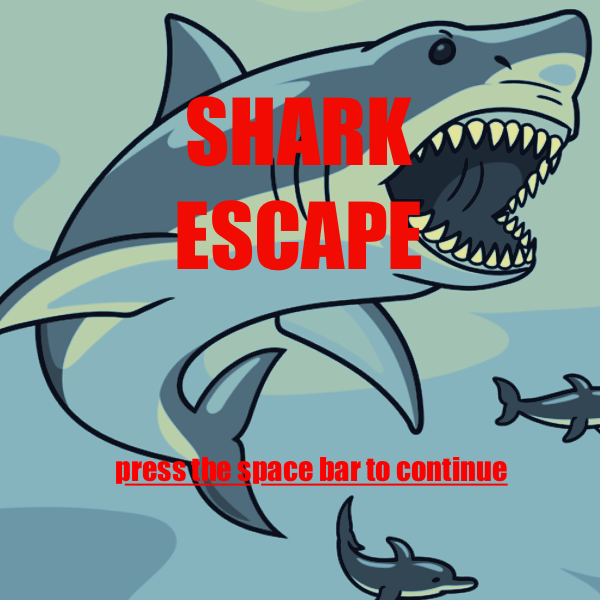
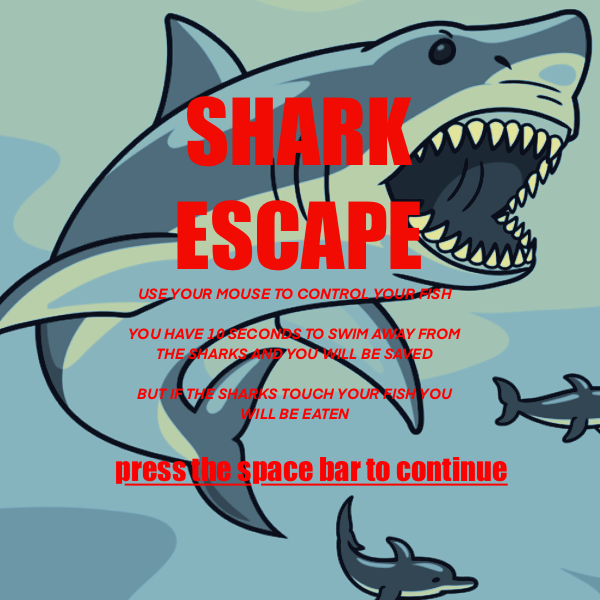
updated title screen with instructions!

Changed region(s): [[0.21, 0.63, 0.75, 0.72], [0.21, 0.54, 0.78, 0.6], [0.21, 0.48, 0.75, 0.51]]

diff --git a/exercises/age-of-aquariums/js/script.js b/exercises/age-of-aquariums/js/script.js
@@ -1,14 +1,14 @@
 /**
- * Title of Project
- * Author Name
+ * SHARK ESCAPE!
+ * Léa Fournier
  * 
- * This is a template. You must fill in the title, author, 
- * and this description to match your project!
+ * You have 10 seconds to swim away from the sharks! Don't let the grey circles (sharks) touch you and you will be saved. 
+ * If they touch you: game over!
  */
 
 "use strict";
 let startTime = undefined;
-let duration = 5000;
+let duration = 10000; 
 
 let user = {
     x: 0,
@@ -55,7 +55,7 @@ function createFish(x, y) {
         size: 100,
         vx: 0,
         vy: 0,
-        speed: 3,
+        speed: 7,
         active: false
     };
     return fish;
@@ -116,11 +116,6 @@ function game() {
     fill(255, 0, 0);
     ellipse(user.x, user.y, user.size);
     pop();
-    for (let fish of school) {
-        //if (fish.active) {
-        //ellipse(fish.x, fish.y, fish.size);
-
-    }
 }
 
 

diff --git a/exercises/age-of-aquariums/index.html b/exercises/age-of-aquariums/index.html
@@ -4,7 +4,7 @@
     <meta charset="utf-8">
     <meta name="viewport" width=device-width, initial-scale=1.0, maximum-scale=1.0, user-scalable=0>
 
-    <title>CHANGE THIS TITLE IN INDEX.HTML!</title>
+    <title>SHARK ESCAPE!</title>
 
     <!-- CSS stylesheet(s) -->
     <link rel="stylesheet" type="text/css" href="css/style.css" />
